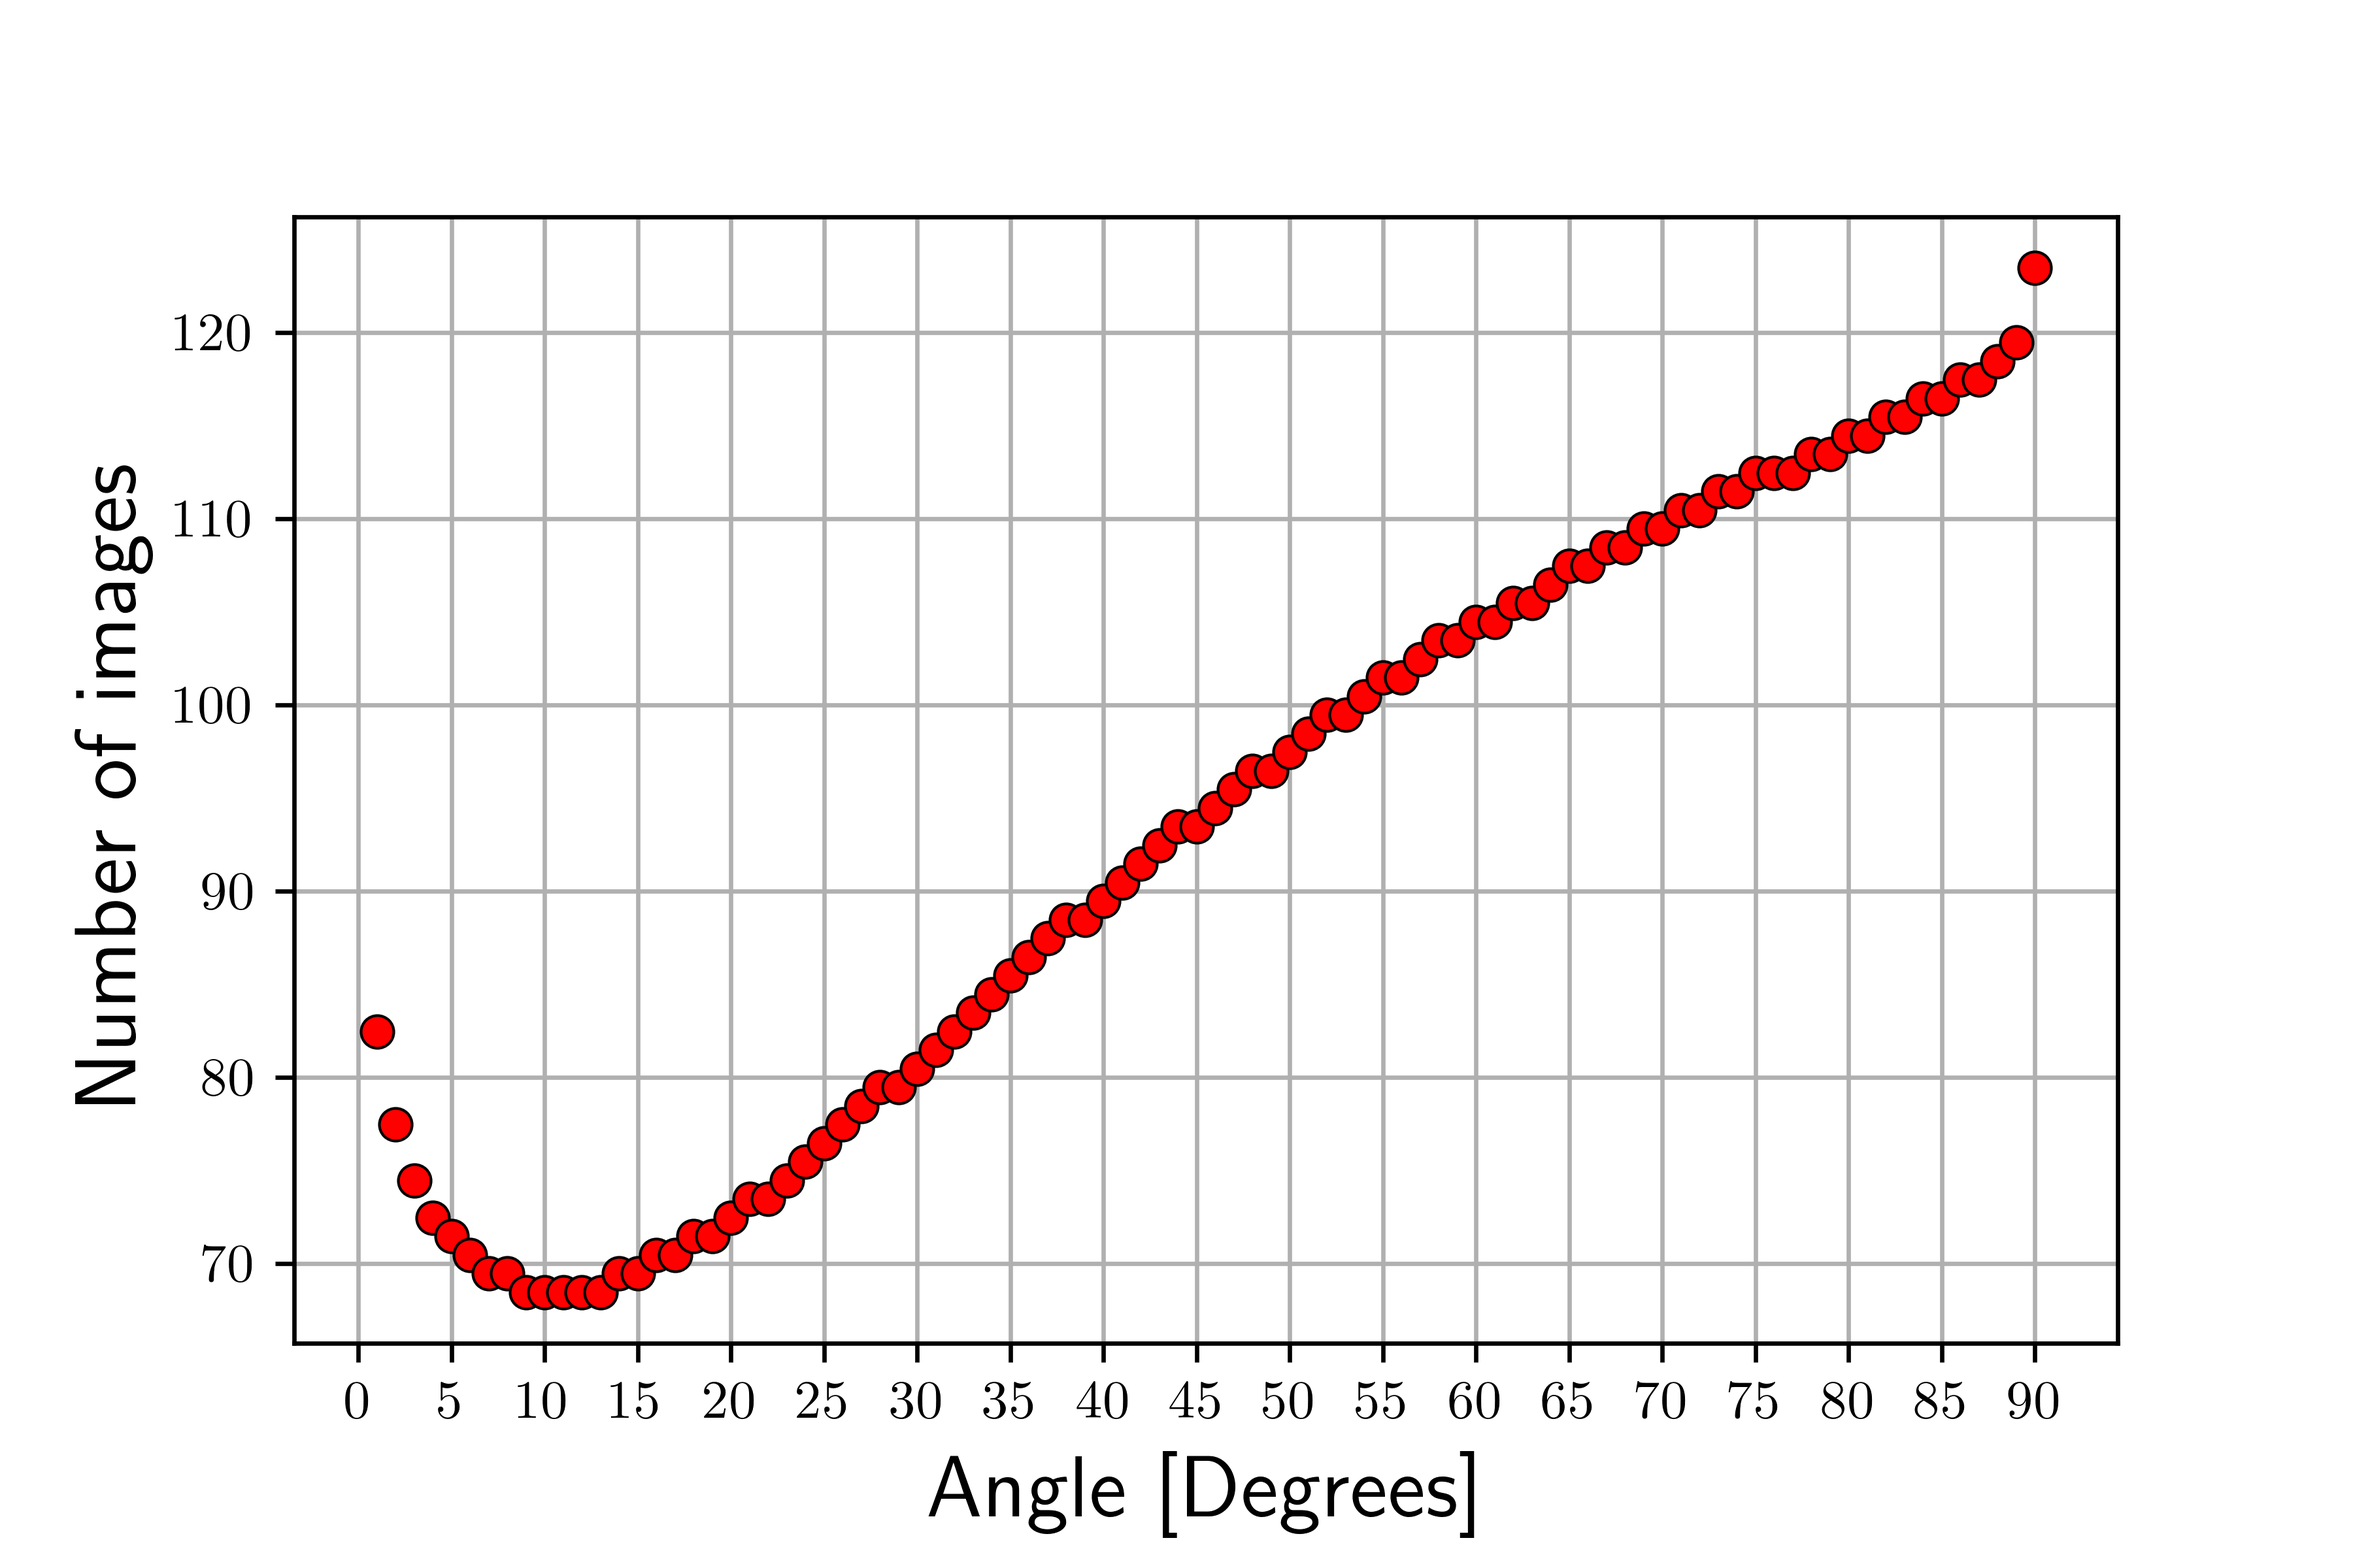
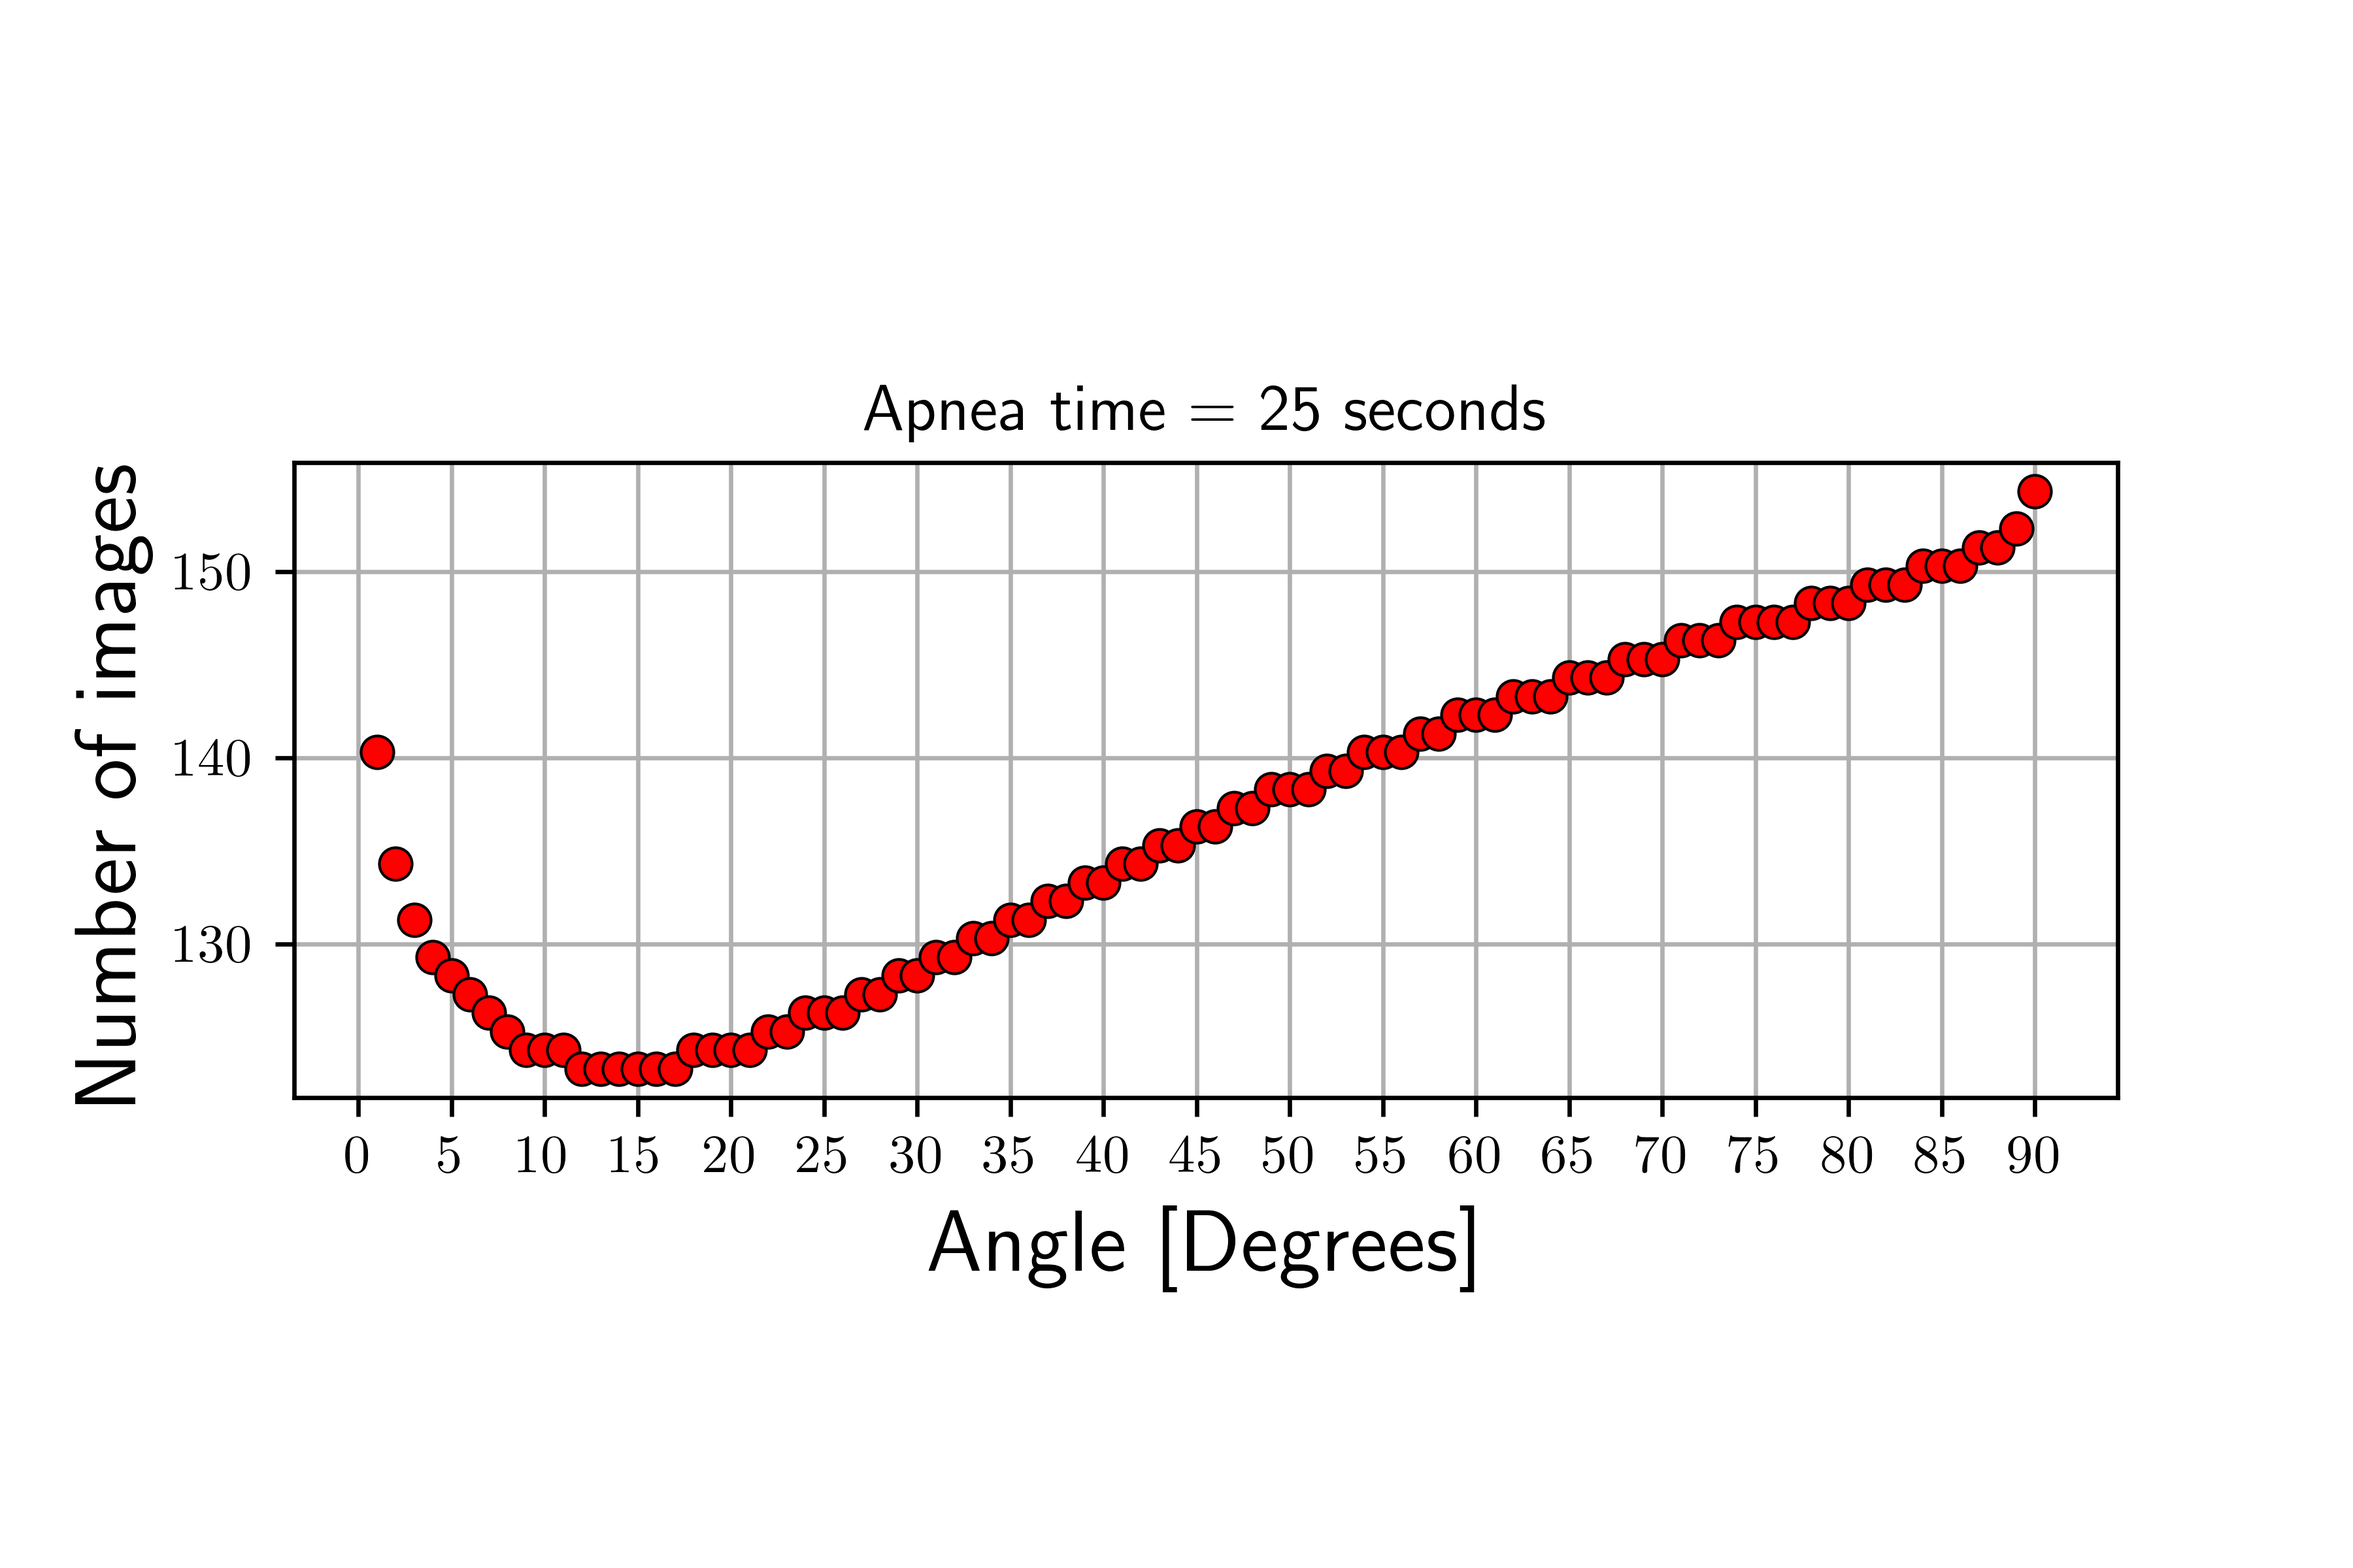
Working on simulations. Also extracted number of averages from DICOM in the GUI program

diff --git a/GUI/dicomROI_more_files.py b/GUI/dicomROI_more_files.py
@@ -112,12 +112,12 @@ class SearchFolder(Frame):
             # the folder with the dicom files. If you want the interface to search the folder to appear when you click
             # the "Search Folder" button, simply remove this conditional leaving only the command  self.dirname.append(filedialog.askdirectory(parent=root, initialdir="/", title='Selecione uma pasta'))
                 # self.dirname.append(filedialog.askdirectory(parent=root, initialdir="/", title='Selecione uma pasta'))
-                # self.dirname = '/Users/yurir.tonin/Dropbox/TCC/DICOM/Dados/PAC001/901_AXI FLIP 2/DICOM'
-                self.dirname = 'C:/Users/Yuri Tonin/Desktop/Dados/PAC001/2001_AXI FLIP 2/DICOM'
+                self.dirname = '/Users/yurir.tonin/Dropbox/TCC/DICOM/Dados/PAC001/901_AXI FLIP 2/DICOM'
+                # self.dirname = 'C:/Users/Yuri Tonin/Desktop/Dados/PAC001/2001_AXI FLIP 2/DICOM'
             else:
                 # self.dirname.append(filedialog.askdirectory(parent=root, initialdir="/", title='Selecione uma pasta'))
-                # self.dirname = '/Users/yurir.tonin/Dropbox/TCC/DICOM/Dados/PAC001/1001_AXI FLIP 10/DICOM'
-                self.dirname = 'C:/Users/Yuri Tonin/Desktop/Dados/PAC001/2101_AXI FLIP 10/DICOM'
+                self.dirname = '/Users/yurir.tonin/Dropbox/TCC/DICOM/Dados/PAC001/1001_AXI FLIP 10/DICOM'
+                # self.dirname = 'C:/Users/Yuri Tonin/Desktop/Dados/PAC001/2101_AXI FLIP 10/DICOM'
 
             self.path_box.configure(text='Diretório: {0:s}'.format(self.dirname)) #Changes the name of the label to show the last selected folder
             self.dcm_folder.append(self.dirname) # Saves the folder path with dcm files to a list
@@ -163,6 +163,7 @@ class SearchFolder(Frame):
                 self.rows          = dcm_read[0x28, 0x10].value
                 self.columns       = dcm_read[0x28, 0x11].value
                 self.pixel_spacing = dcm_read[0x28, 0x30].value
+                self.number_averages = dcm_read[0x18, 0x83].value
 
                 self.acquisition_time[j][i] = dcm_read[0x8, 0x32].value
 
@@ -187,6 +188,7 @@ class SearchFolder(Frame):
         # self.total_repetition_time = np.multiply(self.repetition_time,1)
         # print(self.total_repetition_time)
 
+        print('Number of averages = {0:.0f}'.format(self.number_averages))
 
         self.TR = self.total_repetition_time[0][0]*10**-3 # Values here work just like for echo time
         self.T1 = 678*10**-3                              # Value in seconds. T1 and T2 values are for 1.5 T

diff --git a/Simulations/steady_fixedtime.py b/Simulations/steady_fixedtime.py
@@ -40,7 +40,7 @@ for i in range(0,b):
         
 #    if i == 0: image_matrix = np.empty((0,thetaErnst))
     
-    total_time = 20 #seconds
+    total_time = 25 #seconds
     
     images_array = np.empty(thetaErnst)
     theta_array = np.empty(thetaErnst)
@@ -79,7 +79,7 @@ for i in range(0,b):
         for n in range(0,N-distance_between_elements):
             
             difference = np.abs(Mz_array[n]-Mz_array[n+distance_between_elements])/Mz_array[n]
-            if difference < 10**-8:
+            if difference < 10**-5:
                 n_stable = n
                 Mz_stable = Mz_array[n]
                 print('nstable = {0:.0f}     dif = {1:.8e}'.format(n_stable,difference))
@@ -87,7 +87,7 @@ for i in range(0,b):
             
 #        print('Estabilidade atingida após {0:d} pulsos.'.format(n+1))
         
-        images_number = (total_time - TR*n_stable) / TR
+        images_number = ((total_time - TR*n_stable) / TR)
         images_array[a] = images_number
         
     #    print('Número de imagens que podem ser adquiridas em até 25 segundos: {0:.0f}'.format(images_number))
@@ -107,6 +107,7 @@ for i in range(0,b):
     plt.ylabel('Number of images',fontsize=16)
     plt.xticks(np.arange(min(theta_array)-1, max(theta_array)+5, 5.0))
 #    plt.yticks(np.arange(100, 155, 10.0))
+    plt.title('Apnea time = {0:.0f} seconds'.format(total_time))
     plt.grid(b=True,which='major',axis='both')    
     plt.axes().set_aspect(1)
     plt.savefig('images.png',dpi=600)
